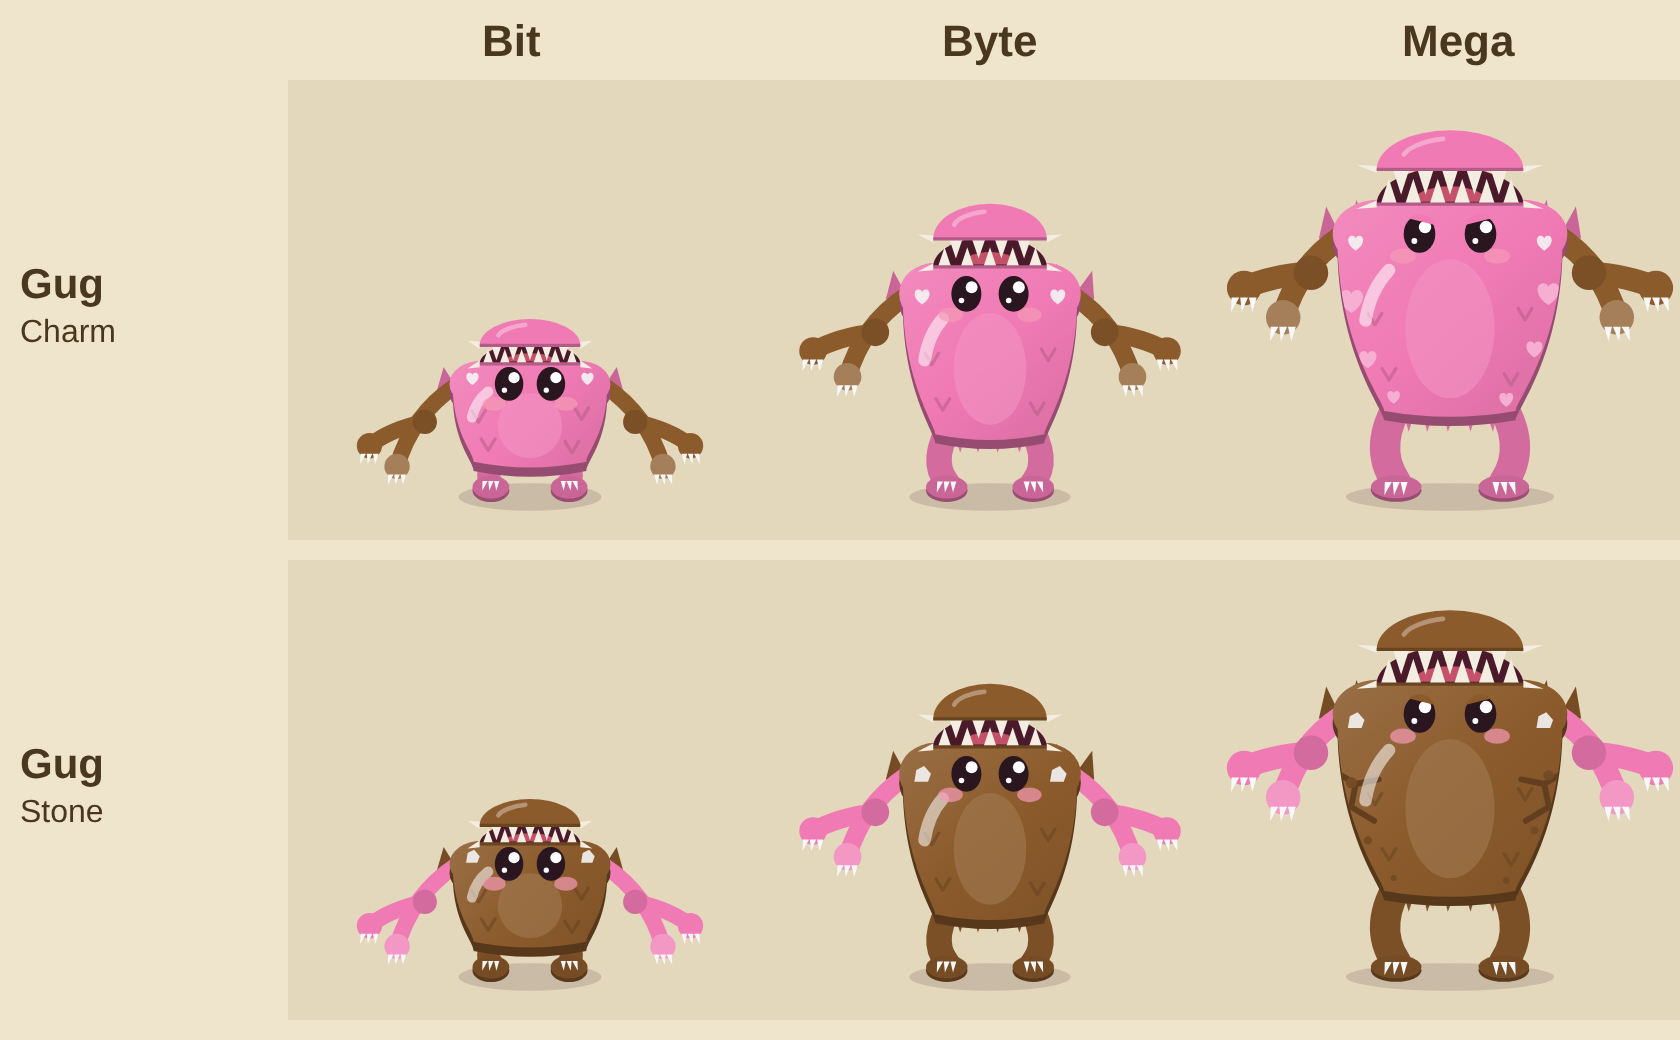
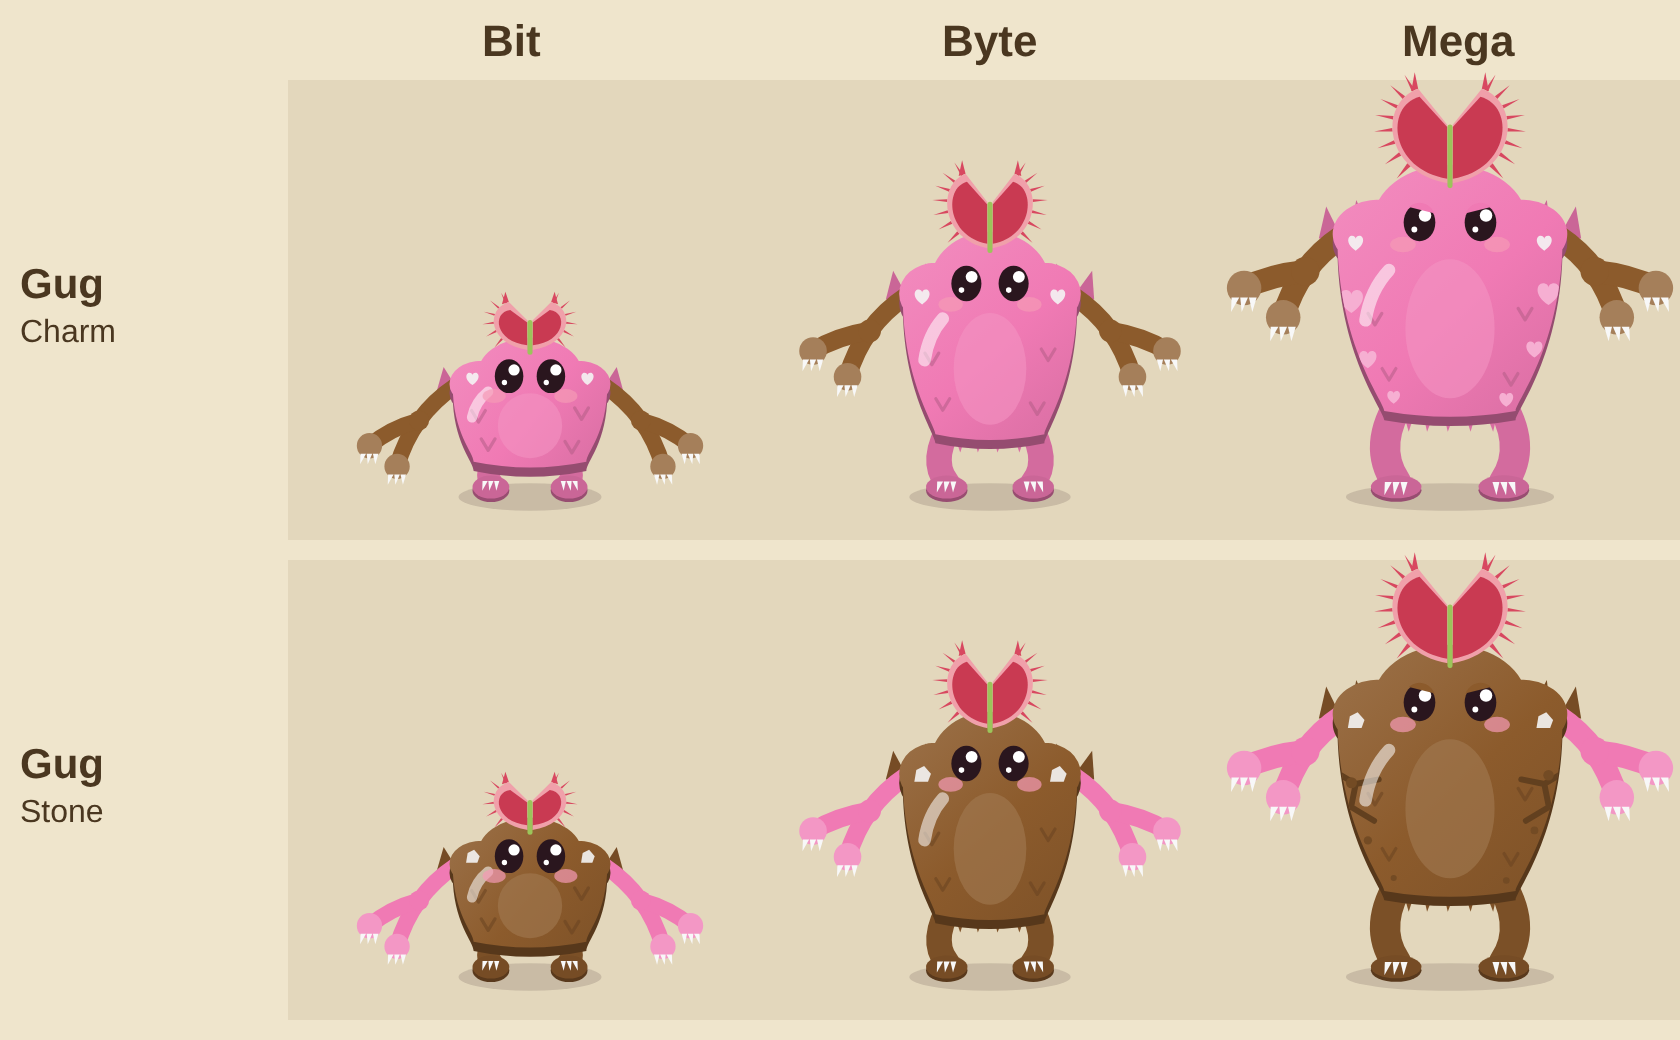
Gug: a flytrap on its head with two red lobes that lean apart and snap shut, and both forearms meeting at one round elbow on the arm
Claude-Session: https://claude.ai/code/session_01MQWzxVrGaM5SWzbnobBWB8

diff --git a/prototype/chibi.js b/prototype/chibi.js
@@ -3554,7 +3554,7 @@ x.feet.push([g.cx, 182, 10]); },
     /* Gug: a hunched, shaggy giant with a big head sunk between its shoulders, long arms that hang to its knees, and forearms that fork at the elbow into two clawed hands. A furry little lump with short arms and a wide grin; long forked arms, a crouch and a shaggy mane from Byte; huge shoulders, a ridge of spiky fur, arms to the ground and big claws at Mega */
     Gug: {
       special: true, dims: { Bit: [66, 62], Byte: [82, 80], Mega: [96, 96] }, ll: st => by(st, 10, 18, 24),
-      bottom(st) { return 182 - this.ll(st); }, height(st) { return this.dims[st][1] + this.ll(st) + by(st, 12, 16, 22); },
+      bottom(st) { return 182 - this.ll(st); }, height(st) { return this.dims[st][1] + this.ll(st) + by(st, 30, 40, 52); },   // room for the flytrap on its head
       hh: g => g.bh * by(g.stage, 0.6, 0.5, 0.46),
       path(c, g) { const hh = this.hh(g), sy = g.top + hh * 0.42, bw = g.bw, tw = bw * by(g.stage, 0.7, 0.6, 0.56);   // a head sunk between two big hunched shoulders over a body that narrows to the hips
         c.beginPath(); c.ellipse(g.cx, g.top + hh / 2, bw * 0.33, hh / 2, 0, 0, 7);
@@ -3580,32 +3580,31 @@ x.feet.push([g.cx, 182, 10]); },
         c.fillStyle = rgba(lt(x.body, 0.18), 0.6); c.beginPath(); c.ellipse(g.cx, sy + (g.bot - sy) * 0.55, g.bw * by(S, 0.2, 0.2, 0.19), (g.bot - sy) * 0.36, 0, 0, 7); c.fill();   // a paler chest
         c.strokeStyle = rgba(dk(x.body, 0.25), 0.55); c.lineWidth = 1.4;   // tufts of fur
         for (const [fx, fy] of [[0.18, 0.62], [0.82, 0.6], [0.24, 0.84], [0.76, 0.86]]) { const px = g.left + g.bw * fx, py = g.top + g.bh * fy; c.beginPath(); c.moveTo(px - 3, py - 3); c.lineTo(px, py + 2); c.lineTo(px + 3, py - 3); c.stroke(); } },
-      front(c, g, x) { const S = g.stage; if (x.back) return; const ck = by(S, 0.75, 0.85, 1.05), cc = rgb(lt(x.acc, 0.35)), aw = this.armW(S), hr = this.handR(S);
-        for (const sd of [-1, 1]) { const [hx, hy] = this.hand(g, x, sd), sh = this.shoulder(g), sx = g.cx + sd * sh.dx;
-          // each forearm splits at the elbow into two full forearms, one hanging down and one reaching out, each with its own clawed hand
-          const ex = sx + (hx - sx) * 0.45 + sd * 2, ey = sh.y + (hy - sh.y) * 0.45, sp = by(S, 12, 15, 17), h2x = hx + sd * sp, h2y = hy - sp * 0.75;
-          limb(c, [ex, ey, (ex + h2x) / 2 + sd * 3, (ey + h2y) / 2 - 2, h2x, h2y], aw, x.parts, sd < 0 ? x.L.armL : x.L.armR, x.t);
-          c.fillStyle = rgb(x.parts); c.beginPath(); c.arc(h2x, h2y, hr, 0, 7); c.fill();
-          c.fillStyle = rgb(dk(x.parts, 0.12)); c.beginPath(); c.arc(ex, ey, aw * 0.75, 0, 7); c.fill();   // the elbow where it splits
+      front(c, g, x) { const S = g.stage; if (x.back) return; const ck = by(S, 0.75, 0.85, 1.05), cc = rgb(lt(x.acc, 0.35)), aw = this.armW(S), hr = this.handR(S), k = this.armK;
+        for (const sd of [-1, 1]) { const a = x.P.arm[sd < 0 ? 0 : 1], sh = this.shoulder(g), sx = g.cx + sd * sh.dx, q = [sx, sh.y, sx + sd * a[0] * k, sh.y + a[1] * k, sx + sd * a[2] * k, sh.y + a[3] * k];
+          // each arm splits at the elbow, halfway along the arm as it's drawn, into a second forearm that reaches out with its own clawed hand
+          const [ex, ey] = qpt(q, 0.5), hx = q[4], hy = q[5], sp = by(S, 12, 15, 17), h2x = hx + sd * sp, h2y = hy - sp * 0.75;
+          limb(c, [ex, ey, (ex + h2x) / 2 + sd * 2, (ey + h2y) / 2 - 2, h2x, h2y], aw, x.parts, sd < 0 ? x.L.armL : x.L.armR, x.t);
+          c.fillStyle = rgb(x.parts); c.beginPath(); c.arc(ex, ey, aw * 0.62, 0, 7); c.fill();   // a round elbow where the two forearms meet
+          c.fillStyle = rgb(lt(x.parts, 0.22)); c.beginPath(); c.arc(h2x, h2y, hr, 0, 7); c.fill();
           this.claws(c, h2x, h2y + 2, ck, cc, sd); this.claws(c, hx, hy + 2, ck, cc, sd); } },
       hl: g => [g.left + g.bw * 0.14, g.top + g.bh * 0.62, g.left + g.bw * 0.16, g.top + g.bh * 0.5, g.left + g.bw * 0.24, g.top + g.bh * 0.42],
       head: g => [g.cx, g.top + 2, g.bw * 0.32],
-      face(c, g, x, look) { const S = g.stage, hh = FAM.Gug.hh(g), fi = faceTwo(c, g, x, look, { ey: hh * 0.6 / g.bh, ex: 0.13, my: hh * 0.8 / g.bh, noMouth: true, s: by(S, 0.72, 0.76, 0.8) });
+      face(c, g, x, look) { const S = g.stage, hh = FAM.Gug.hh(g), fi = faceTwo(c, g, x, look, { ey: hh * 0.5 / g.bh, ex: 0.13, my: hh * 0.78 / g.bh, noMouth: true, s: by(S, 0.72, 0.76, 0.8) });
         if (x.back) return fi;
-        // the mouth is on top of its head: two jaws like a flytrap's, open most of the time and snapping shut now and then
-        const ry = hh / 2, rx = g.bw * 0.33, rimY = g.top + hh * 0.34, hw = rx * Math.sqrt(1 - Math.pow((rimY - (g.top + ry)) / ry, 2)), ph = (x.t % 2600) / 2600,
-          snap = ph > 0.86 ? Math.abs(Math.sin((ph - 0.86) / 0.14 * Math.PI)) : 0, gap = hh * by(S, 0.24, 0.27, 0.3) * (x.open ? 1.25 : 1) * (1 - snap * 0.9), capH = rimY - g.top;
-        c.fillStyle = '#4a1a2a'; c.beginPath(); c.ellipse(g.cx, rimY, hw, gap + 1, 0, Math.PI, 0); c.fill();   // inside the jaws
-        c.fillStyle = '#c4506a'; c.beginPath(); c.ellipse(g.cx, rimY - 1, hw * 0.5, Math.max(1, gap * 0.45), 0, Math.PI, 0); c.fill();
-        const tw = by(S, 7, 9, 11), tl = by(S, 6.5, 8.5, 11), n = Math.max(3, Math.round(hw * 2 / tw)), lid = rimY - gap;
-        c.fillStyle = '#f4eee2';
-        for (let k = 0; k < n; k++) { const tx = g.cx - hw + (k + 0.5) * hw * 2 / n;   // teeth up from the lower jaw, and down from the upper one in between them
-          c.beginPath(); c.moveTo(tx - tw * 0.32, rimY); c.lineTo(tx, rimY - tl); c.lineTo(tx + tw * 0.32, rimY); c.fill();
-          if (k < n - 1) { const ux = tx + hw / n; c.beginPath(); c.moveTo(ux - tw * 0.32, lid); c.lineTo(ux, lid + tl); c.lineTo(ux + tw * 0.32, lid); c.fill(); } }
-        c.fillStyle = rgb(x.body); c.beginPath(); c.ellipse(g.cx, lid, hw, capH, 0, Math.PI, 0); c.fill();   // the upper jaw, lifted
-        c.strokeStyle = rgb(dk(x.body, 0.25)); c.lineWidth = 1.4; c.beginPath(); c.moveTo(g.cx - hw, lid); c.lineTo(g.cx + hw, lid); c.stroke(); c.beginPath(); c.moveTo(g.cx - hw, rimY); c.lineTo(g.cx + hw, rimY); c.stroke();
-        c.strokeStyle = rgba([255, 255, 255], 0.35); c.lineWidth = 2; c.beginPath(); c.ellipse(g.cx - hw * 0.2, lid - capH * 0.45, hw * 0.45, capH * 0.3, -0.2, Math.PI * 1.1, Math.PI * 1.6); c.stroke();
-        c.fillStyle = '#f4eee2'; for (const sd of [-1, 1]) for (const yy of [rimY, lid]) { c.beginPath(); c.moveTo(g.cx + sd * hw, yy - 1.5); c.lineTo(g.cx + sd * (hw + tl * 0.8), yy + (yy === lid ? -2 : 2)); c.lineTo(g.cx + sd * hw, yy + 1.5); c.fill(); }   // spikes at the corners, like a flytrap's
+        // its mouth is a flytrap on top of its head: two red lobes either side of a green middle, edged with long spikes. They stay open and snap shut now and then
+        const ph = (x.t % 2600) / 2600, snap = ph > 0.86 ? Math.abs(Math.sin((ph - 0.86) / 0.14 * Math.PI)) : 0, o = (x.open ? 1.15 : 1) * (1 - snap * 0.8);
+        const bx = g.cx, by0 = g.top + hh * 0.16, H = hh * by(S, 0.62, 0.72, 0.82), W = g.bw * by(S, 0.2, 0.21, 0.22), tl = by(S, 5, 6.5, 8), n = by(S, 6, 7, 8);
+        const sw = 0.25 + 0.75 * o;   // how far the two lobes lean apart
+        for (const sd of [-1, 1]) {
+          const peak = [bx + sd * W * 0.55 * sw + sd * 1.5, by0 - H], mid = [bx + sd * 1.2, by0 - H * (0.62 - 0.3 * (1 - sw))], o1 = [bx + sd * W * (0.55 * sw + 0.85), by0 - H * 0.85], o2 = [bx + sd * W * (0.4 * sw + 0.9), by0 - H * 0.12], base = [bx + sd * 1, by0];
+          const at = u => { const v = 1 - u; return [0, 1].map(i => v * v * v * peak[i] + 3 * v * v * u * o1[i] + 3 * v * u * u * o2[i] + u * u * u * base[i]); };
+          c.fillStyle = '#d84860'; for (let k2 = 0; k2 < n; k2++) { const u = 0.04 + k2 / n * 0.8, [px, py] = at(u), [qx, qy] = at(u + 0.03), dx = qx - px, dy = qy - py, L = Math.hypot(dx, dy) || 1, nx = -dy / L * -sd, ny = dx / L * -sd;   // spikes along the outer rim
+            c.beginPath(); c.moveTo(px - dx * 0.5, py - dy * 0.5); c.lineTo(px + nx * tl, py + ny * tl); c.lineTo(px + dx * 0.5, py + dy * 0.5); c.closePath(); c.fill(); }
+          c.beginPath(); c.moveTo(peak[0], peak[1]); c.lineTo(peak[0] + sd * 1.5, peak[1] - tl * 0.9); c.lineTo(peak[0] + sd * 3, peak[1] + 1); c.fill();
+          c.fillStyle = '#f0a0aa'; c.beginPath(); c.moveTo(...base); c.lineTo(...mid); c.lineTo(...peak); c.bezierCurveTo(...o1, ...o2, ...base); c.closePath(); c.fill();   // the lobe with a pale rim
+          c.fillStyle = '#c93a52'; c.beginPath(); c.moveTo(bx + sd * 1.2, by0 - 2); c.lineTo(mid[0], mid[1] + 1); c.lineTo(peak[0] - sd * 0.6, peak[1] + 3.5); c.bezierCurveTo(o1[0] - sd * 2.8, o1[1] + 1.5, o2[0] - sd * 3, o2[1] - 1, bx + sd * 1.2, by0 - 2); c.closePath(); c.fill(); }
+        c.strokeStyle = '#9cc45a'; c.lineWidth = 2.2; c.lineCap = 'round'; c.beginPath(); c.moveTo(bx, by0 + 1); c.lineTo(bx, by0 - H * (0.62 - 0.3 * (1 - sw)) + 1); c.stroke();   // the green middle
         return fi; }
     },
     /* Yog: Yog-Sothoth, a floating globe with smaller glowing globes always drifting round it, passing in front and behind, and feelers trailing under it. Three globes and three feelers; five globes with eyes in them and five feelers from Byte; seven globes that change colour, a ring of sparks and seven feelers at Mega */
